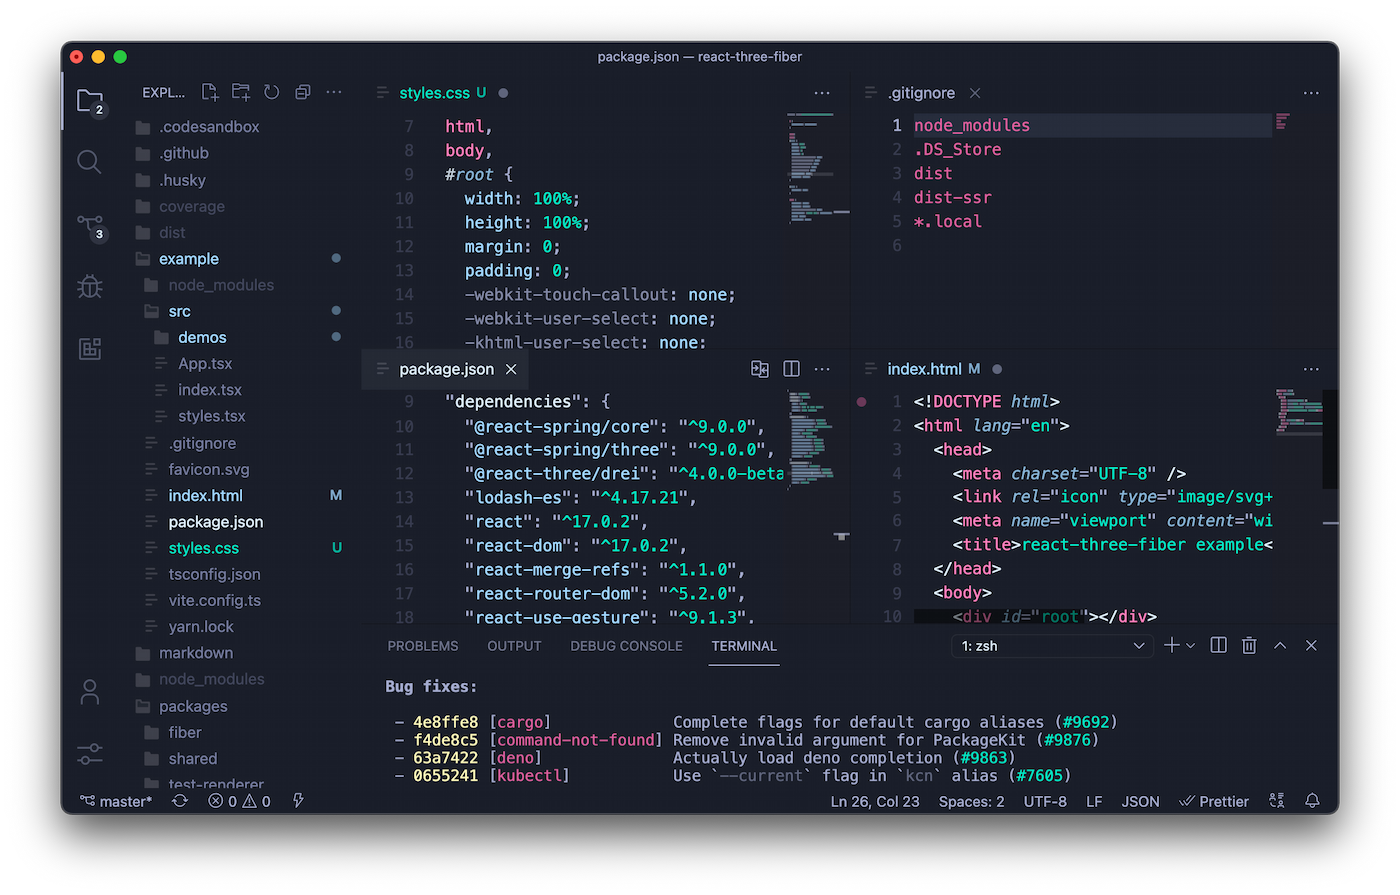
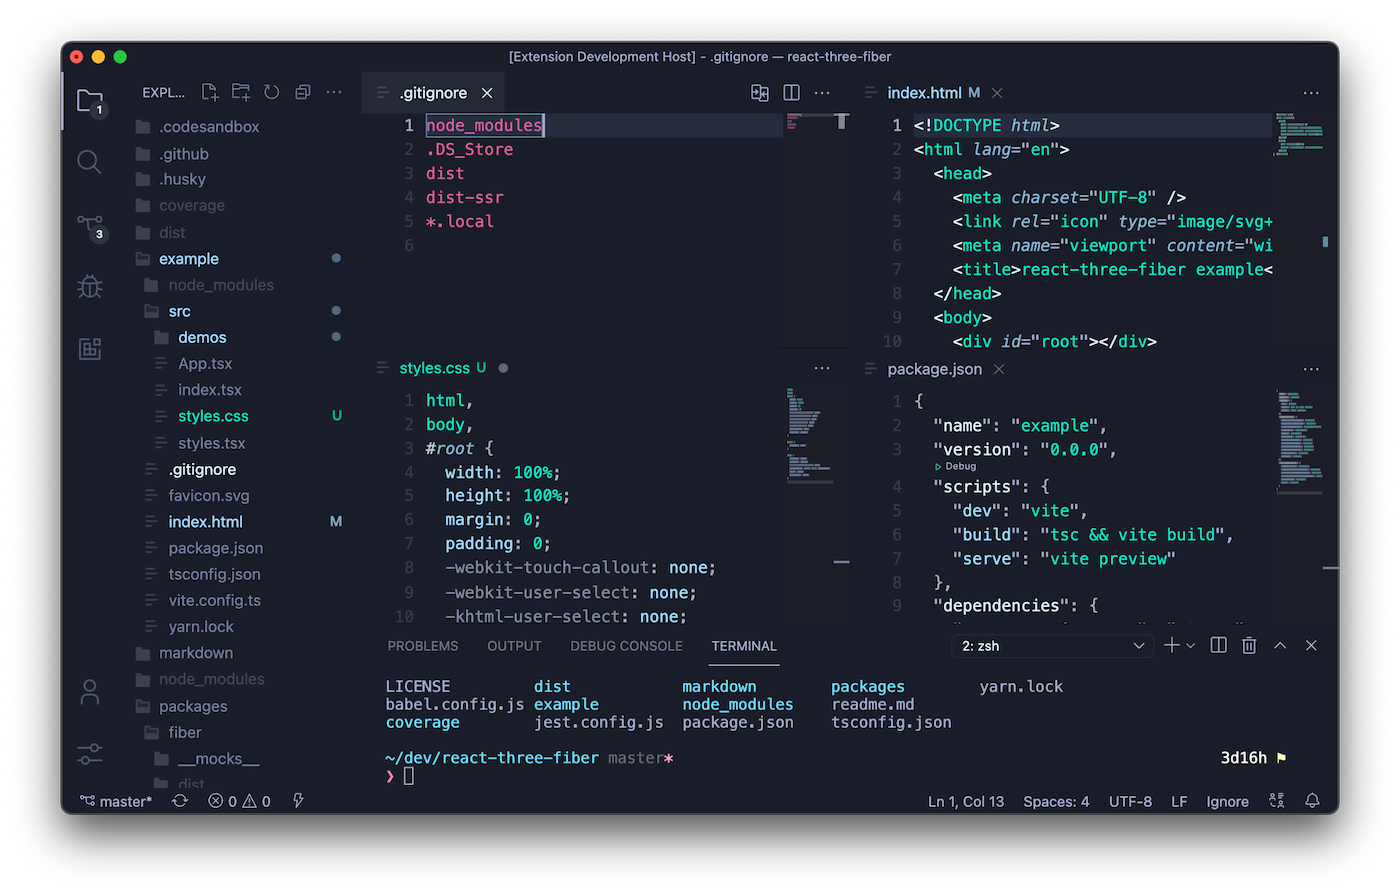
eliminate pink jsx in favour of mint

diff --git a/src/theme.js b/src/theme.js
@@ -545,7 +545,7 @@ function schema({ colors, styles }) {
       {
         "scope": ["keyword.control.flow"],
         "settings": {
-          "foreground": "${colors.brightMint}"
+          "foreground": "${colors.brightMint}c0"
         }
       },
       {
@@ -659,13 +659,13 @@ function schema({ colors, styles }) {
       {
         "scope": ["support.class.component"],
         "settings": {
-          "foreground": "${colors.pink}"
+          "foreground": "${colors.brightMint}"
         }
       },
       {
         "scope": ["entity.name.tag", "entity.name.tag", "meta.tag.sgml", "markup.deleted.git_gutter"],
         "settings": {
-          "foreground": "${colors.pink}"
+          "foreground": "${colors.brightMint}"
         }
       },
       {
